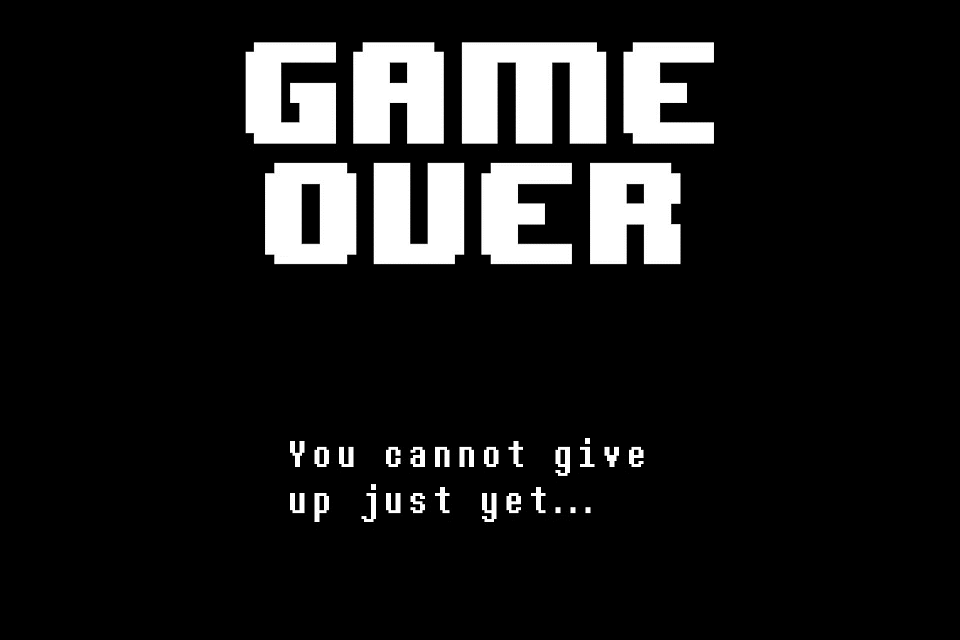
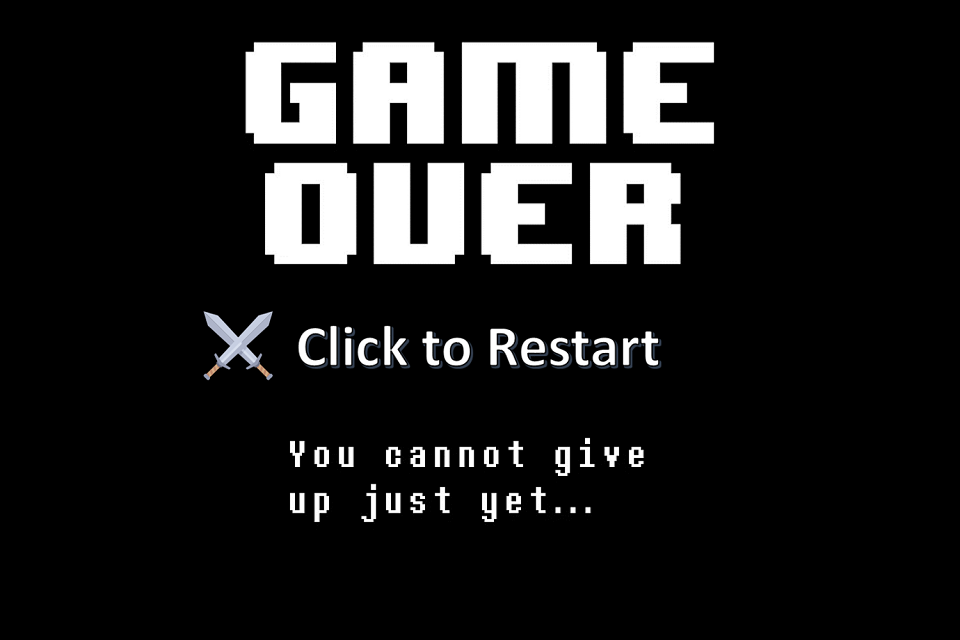
game win scene & fix bomb bug

Changed region(s): [[0.3125, 0.5, 0.6875, 0.5938], [0.2188, 0.4688, 0.2812, 0.5938]]

diff --git a/BombingAdventure/Classes/GameScene.cpp b/BombingAdventure/Classes/GameScene.cpp
@@ -72,7 +72,27 @@ bool GameScene::init() {
     hero = Player::create();
 	hero->setPosition(Vec2(x+20, y+70));
     this->addChild(hero, 100, 200);
+	
+	/* create the health point bar for player*/
+	HP = ui::LoadingBar::create("hp.png");
+	HP->setPosition(Vec2(HP->getContentSize().width / 2, visibleSize.height - HP->getContentSize().height / 2));
+	HP->setPercent(100);
+	addChild(HP, 101);
+	HP->setGlobalZOrder(101);
 
+	MenuItemImage * win_scene = MenuItemImage::create(
+		"win.png",
+		"win.png",
+		CC_CALLBACK_1(GameScene::menuCallBack, this));
+
+	win_scene->setPosition(Vec2(visibleSize.width / 2, visibleSize.height / 2));
+	win_scene->setScale(0.6);
+
+	auto menu = Menu::create(win_scene, NULL);
+	menu->setPosition(Vec2::ZERO);
+	addChild(menu, 1, "menu");
+	menu->setGlobalZOrder(200);
+	menu->setVisible(false);
 
     /* Following are keyboard listener  */
 
@@ -167,10 +187,16 @@ bool GameScene::init() {
 
 void GameScene::update(float delta) {
 
-	if (!hero->is_alive() || monster_controller->current_monster_vector.empty()) {
+	if (!hero->is_alive()) {
 		game_over();
 	}
+
+	if (monster_controller->current_monster_vector.empty()) {
+		this->getChildByName("menu")->setVisible(true);
+	}
 	
+	HP->setPercent(100 * hero->get_HP() / PLAYER_MAX_HP);
+
 	/* Following part updates the movement of player    */
 	float position_x = hero->getPositionX();
 	float position_y = hero->getPositionY();
@@ -431,6 +457,11 @@ Vec2 GameScene::tileCoordFromPosition(Vec2 position)
 
 void GameScene::game_over()
 {
-	Director::getInstance()->replaceScene(CCTransitionCrossFade::create(0.8f, GameOverScene::createScene()));
+	Director::getInstance()->replaceScene(CCTransitionFade::create(0.6f, GameOverScene::createScene()));
+}
+
+void GameScene::menuCallBack(Ref *pSender)
+{
+	Director::getInstance()->replaceScene(CCTransitionFade::create(0.6f, HelloWorld::createScene()));
 }
 

diff --git a/BombingAdventure/Classes/Player.cpp b/BombingAdventure/Classes/Player.cpp
@@ -13,10 +13,7 @@ Player::Player() {
 	HP = PLAYER_DEFAULT_HP;
     moving_speed = PLAYER_DEFAULT_MOVING_SPEED;
     num_max_available_bombs = PLAYER_DEFAULT_AVAILABLE_BOMBS;
-    num_present_bombs = 0;
     /* Default view of a new player         */
-//            std::string player_file_name = "player1_default.png";
-//            bind_sprite(Sprite::create(player_file_name));
     bind_sprite(Sprite::create("player1_default.png"));
 	this->setAnchorPoint(Vec2(0.5, 0.5));
 	this->_contentSize = getContentSize();
@@ -32,7 +29,7 @@ bool Player::init() {
 
 bool Player::can_set_bomb() {
     if (get_sprite() != NULL) {
-        return num_present_bombs < num_max_available_bombs;
+         return num_present_bombs < num_max_available_bombs;
     }
     return false;
 }
@@ -61,7 +58,7 @@ int Player::get_HP() {
 
 int Player::get_num_available_bombs() {
     if (get_sprite() == NULL) return -1;
-    return num_max_available_bombs - num_present_bombs;
+    return (num_max_available_bombs - num_present_bombs);
 }
 
 Bomb* Player::set_bomb() {
@@ -79,8 +76,6 @@ Bomb* Player::set_bomb() {
     ++(this->num_present_bombs);
 
     bomb->startCounting(2.5f);
-
-	--(this->num_present_bombs);
 	
 	return bomb;
 }
@@ -115,6 +110,8 @@ void Player::pick_item(Item *item) {
 
 void Player::bomb_vs_man(Vec2 bomb_tile_coord, int l, int r, int u, int d)
 {
+	--(this->num_present_bombs);
+	
 	Vec2 player_tile_coord = tileCoordFromPosition(this->getPosition());
 	for (int i = bomb_tile_coord.x - l; i <= bomb_tile_coord.x + r; i++) {
 		if (player_tile_coord == Vec2(i, bomb_tile_coord.y)) {

diff --git a/BombingAdventure/Classes/GameScene.h b/BombingAdventure/Classes/GameScene.h
@@ -3,10 +3,9 @@
 
 #include "cocos2d.h"
 #include "Player.h"
-#include "Monster.h"
-#include "Item.h"
 #include "MonsterController.h"
 #include "ItemController.h"
+#include "ui\UILoadingBar.h"
 
 const cocos2d::Size TILE_SIZE(40, 40);
 const cocos2d::Size MAP_SIZE(24, 16);
@@ -41,8 +40,9 @@ public:
 
 	bool makeMove(cocos2d::Vec2 position, Player * player);
 
-	virtual void game_over();
+	void game_over();
 
+	virtual void menuCallBack(cocos2d::Ref *pSender);
 
 	/* macro for creating layer */
 	CREATE_FUNC(GameScene);
@@ -102,9 +102,11 @@ private:
 
 	/* Test class Player part   */
     Player * hero = NULL;      /* This is the player control by human  */
+
+	ui::LoadingBar *HP = NULL;		   /* health point bar					   */
 //    Map<Vec2, STATUS_AT*> status_map;
-        MonsterController * monster_controller = NULL;
-        ItemController * item_controller = NULL;
+	MonsterController * monster_controller = NULL;
+	ItemController * item_controller = NULL;
 
 };
 

diff --git a/BombingAdventure/Classes/Player.h b/BombingAdventure/Classes/Player.h
@@ -13,10 +13,10 @@
 USING_NS_CC;
 
 const int MAX_POWER = 6;
-const int PLAYER_DEFAULT_HP = 3;
+const int PLAYER_DEFAULT_HP = 5;
 const int PLAYER_DEFAULT_AVAILABLE_BOMBS = 3;
 const float PLAYER_DEFAULT_MOVING_SPEED = 3.0f;
-const int PLAYER_MAX_HP = 10;
+const int PLAYER_MAX_HP = 5;
 const float PLAYER_MAX_MOVING_SPEED = 8.0f;
 enum MOVE_SIGNAL_X {MOVE_LEFT = -1, MOVE_STOP_X, MOVE_RIGHT};
 enum MOVE_SIGNAL_Y {MOVE_DOWN = -1, MOVE_STOP_Y, MOVE_UP};
@@ -116,7 +116,7 @@ protected:
     int HP;
     float moving_speed;
     int num_max_available_bombs;
-    int num_present_bombs;
+    int num_present_bombs = 0;
 
 private:
 

diff --git a/BombingAdventure/Classes/GameOverScene.cpp b/BombingAdventure/Classes/GameOverScene.cpp
@@ -29,7 +29,7 @@ bool GameOverScene::init()
 	return true;
 }
 
-void GameOverScene::menuCallBack(cocos2d::Ref * pSender)
+void GameOverScene::menuCallBack(Ref * pSender)
 {
 	Director::getInstance()->replaceScene(CCTransitionFade::create(0.6f, HelloWorld::createScene()));
 }

diff --git a/BombingAdventure/Classes/GameOverScene.h b/BombingAdventure/Classes/GameOverScene.h
@@ -15,5 +15,4 @@ public:
 	CREATE_FUNC(GameOverScene);
 };
 
-
 #endif //_GAME_OVER_SCENE_H_
